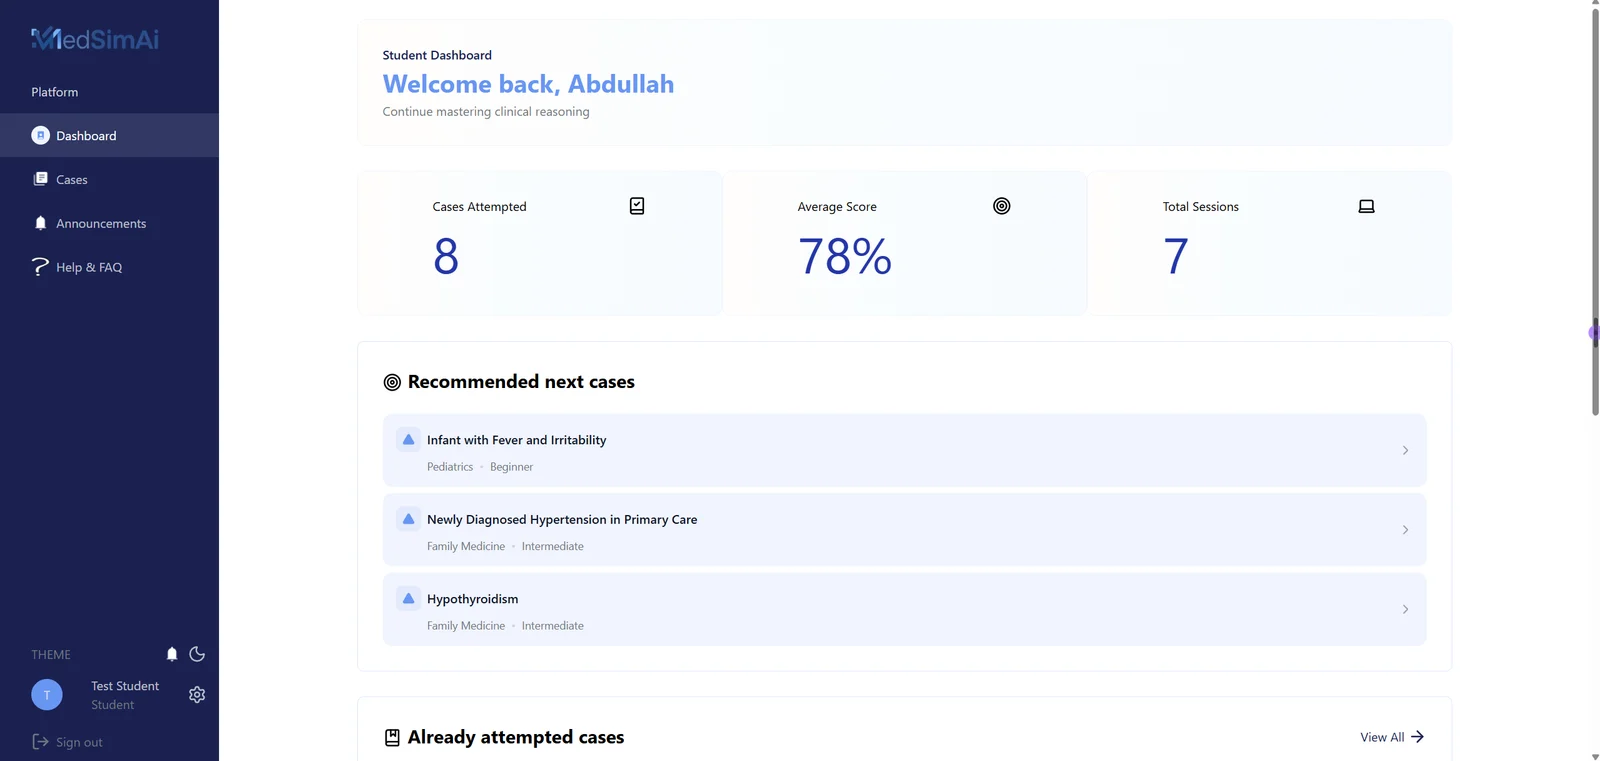
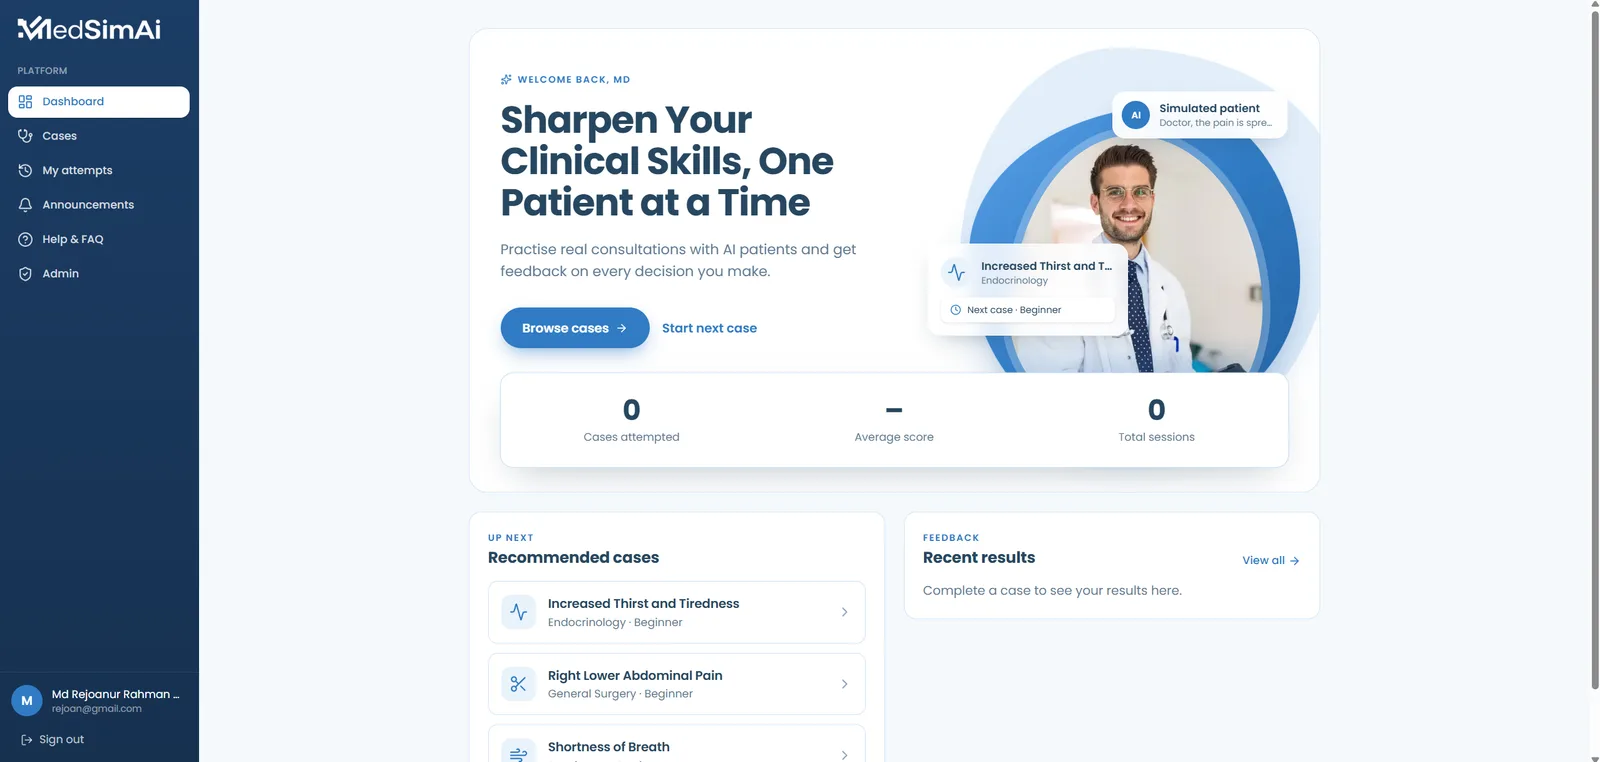
updated projects order and card image

diff --git a/content/projects/jajabor.tsx b/content/projects/jajabor.tsx
@@ -13,7 +13,6 @@ export const jajabor: Project = {
       'A free, honest guide to travelling in Bangladesh, with destination guides and stories written by real travellers.',
     imageAlt: 'Jajabor home page with a destination search bar above photos of Bangladeshi landscapes'
   },
-  featured: true,
   image,
   imageAlt: 'Jajabor home page headline, destination search, and a strip of Bangladesh travel photos',
   tags: ['Next.js', 'React', 'Payload CMS', 'Better Auth', 'MongoDB', 'Cloudinary', 'Tailwind CSS'],

diff --git a/app/(projects)/projects/page.tsx b/app/(projects)/projects/page.tsx
@@ -6,7 +6,7 @@ import { listedProjects } from '@/content/projects';
 export const metadata: Metadata = {
   title: 'Projects',
   description:
-    'Selected projects: Zoinpark, a crypto rewards platform; Jajabor, a travel guide to Bangladesh; and MedSimAi, an AI-powered medical simulation platform.',
+    'Selected projects: Zoinpark, a crypto rewards platform; MedSimAi, an AI-powered medical simulation platform; and Jajabor, a travel guide to Bangladesh.',
   alternates: { canonical: '/projects' }
 };
 

diff --git a/content/projects/medsimai.tsx b/content/projects/medsimai.tsx
@@ -12,6 +12,7 @@ export const medsimai: Project = {
       'An AI-powered medical simulation platform where students practice clinical assessment and patient diagnosis.',
     imageAlt: 'MedSimAi student dashboard with clinical cases, average score, and session statistics'
   },
+  featured: true,
   image,
   imageAlt: 'MedSimAi student dashboard with recommended clinical cases, scores, and sessions',
   tags: ['Next.js', 'React', 'Auth.js', 'Gemini API', 'REST API', 'Tailwind CSS', 'MongoDB'],

diff --git a/content/projects/index.ts b/content/projects/index.ts
@@ -6,7 +6,7 @@ import type { Project } from './types';
 export type { Project } from './types';
 
 /** All project pages, in display order. */
-export const projects: Project[] = [zoinpark, jajabor, medsimai];
+export const projects: Project[] = [zoinpark, medsimai, jajabor];
 
 /** Projects that appear in the home and /projects listings. */
 export const listedProjects = projects.filter(
